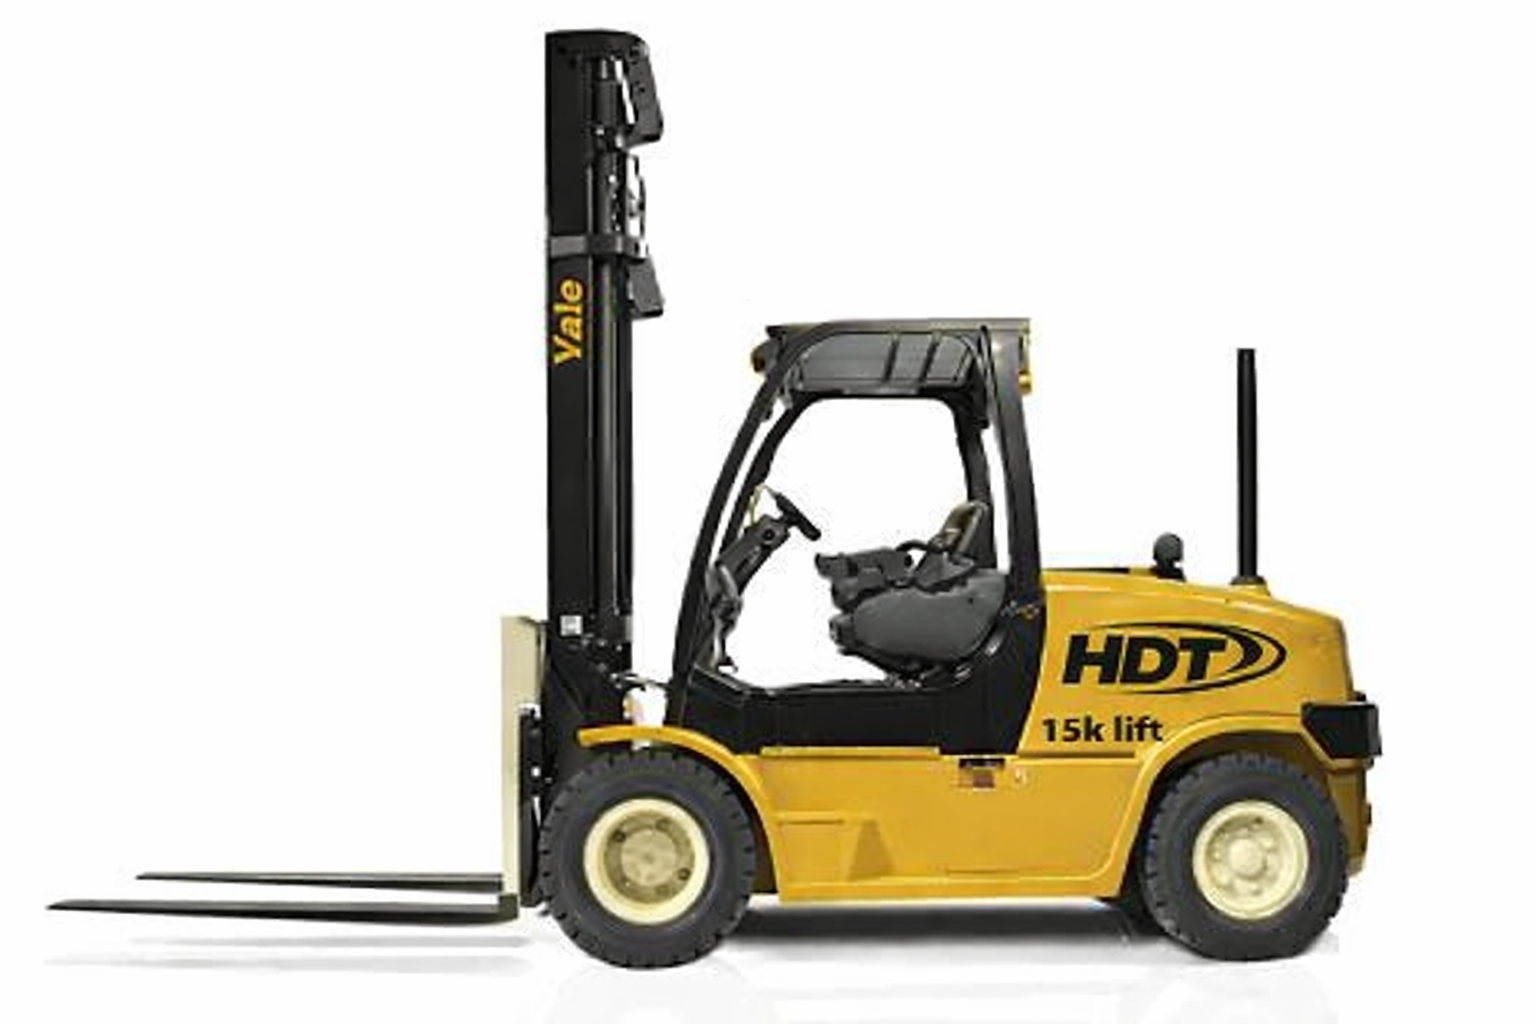
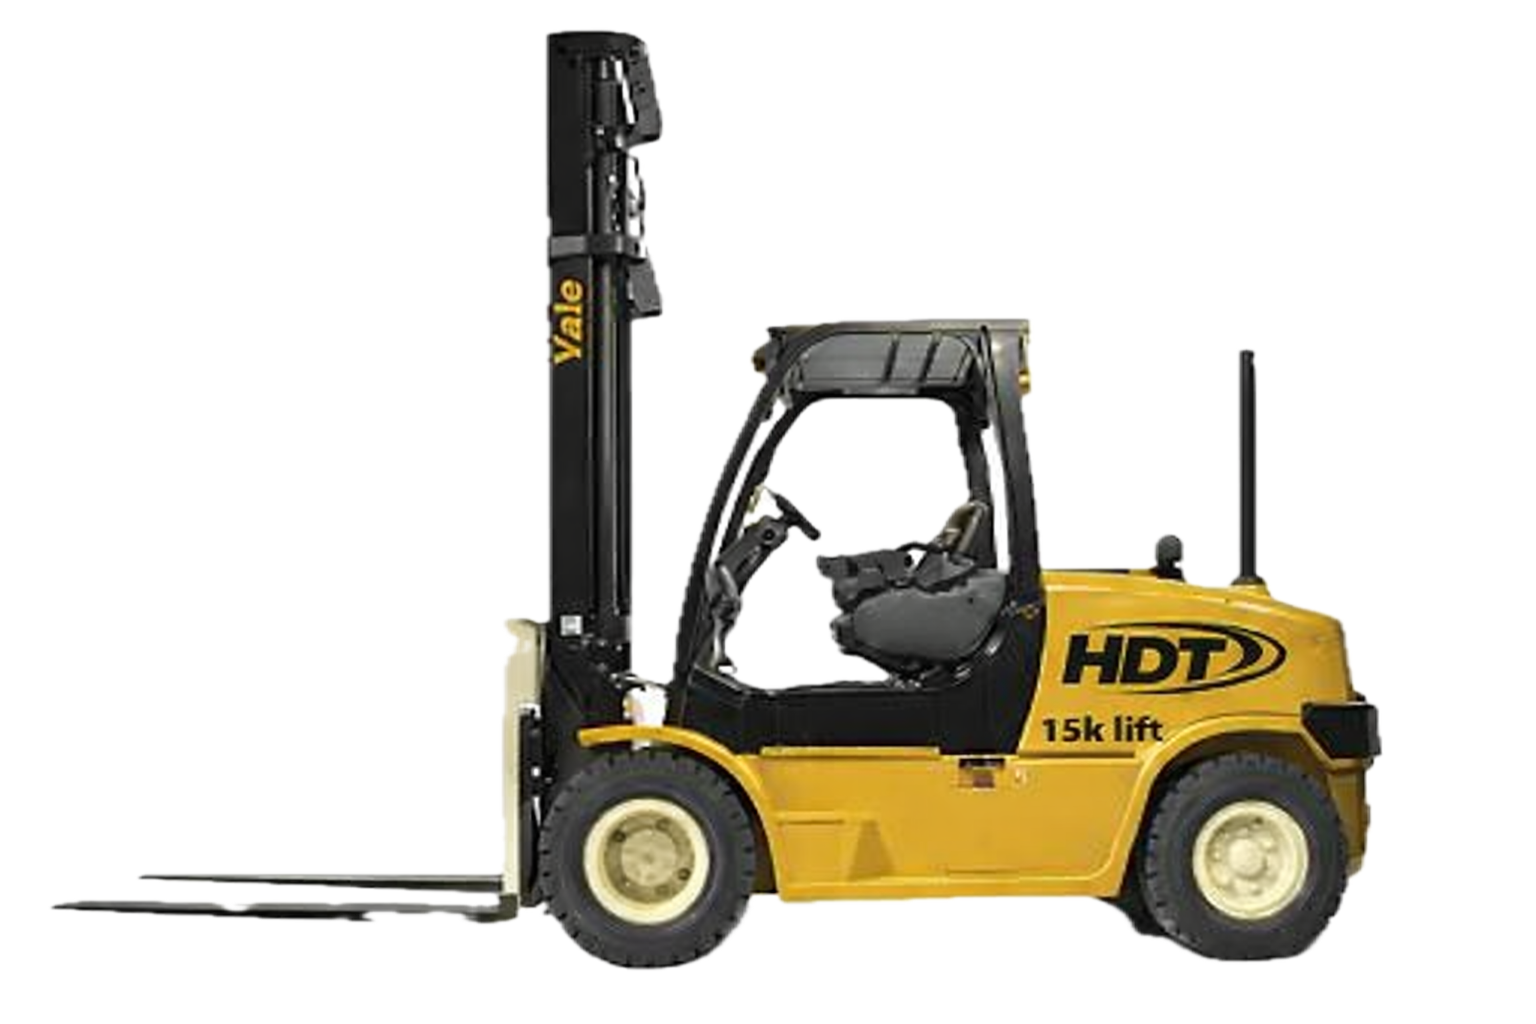
added requested content

diff --git a/styles.css b/styles.css
@@ -261,12 +261,18 @@ nav a:not(.cta-button):hover::after {
 /* Hero Section */
 .hero {
     position: relative;
-    padding: 120px 0;
-    overflow: hidden;
-    background: var(--primary);
-    min-height: 90vh;
+    padding: 40px 0;
+    overflow: hidden; /* Changed from visible to contain the background */
     display: flex;
     align-items: center;
+    justify-content: center;
+    min-height: 70vh;
+    box-sizing: border-box;
+    text-align: center;
+    transform-style: flat;
+    backface-visibility: visible;
+    perspective: none;
+    z-index: 1; /* Ensure proper stacking context */
 }
 
 .hero-background {
@@ -275,8 +281,11 @@ nav a:not(.cta-button):hover::after {
     left: 0;
     right: 0;
     bottom: 0;
-    background: var(--gradient);
+    width: 100%;
+    height: 100%;
+    background: linear-gradient(135deg, var(--primary) 0%, var(--primary-dark) 100%);
     opacity: 0.97;
+    z-index: -1; /* Ensure it stays behind content */
 }
 
 .hero-background::before {
@@ -286,8 +295,8 @@ nav a:not(.cta-button):hover::after {
     left: 0;
     right: 0;
     bottom: 0;
-    background: radial-gradient(circle at 20% 50%, rgba(99, 102, 241, 0.2) 0%, transparent 50%),
-                radial-gradient(circle at 80% 80%, rgba(79, 70, 229, 0.2) 0%, transparent 50%);
+    background: radial-gradient(circle at 20% 20%, rgba(255, 255, 255, 0.1) 0%, transparent 50%),
+                radial-gradient(circle at 80% 80%, rgba(0, 0, 0, 0.1) 0%, transparent 50%);
 }
 
 .hero-background::after {
@@ -295,64 +304,93 @@ nav a:not(.cta-button):hover::after {
     position: absolute;
     top: 0;
     left: 0;
-    right: 0;
-    bottom: 0;
-    background-image: 
-        linear-gradient(rgba(255, 255, 255, 0.03) 1px, transparent 1px),
-        linear-gradient(90deg, rgba(255, 255, 255, 0.03) 1px, transparent 1px);
-    background-size: 50px 50px;
-    opacity: 0.5;
+    width: 100%;
+    height: 100%;
[1 lines of base64/hex data omitted]
+    opacity: 0.3;
 }
 
 /* Hero Layout */
 .hero-container {
     position: relative;
     z-index: 2;
+    width: 100%;
     height: 100%;
 }
 
 .hero-content {
-    display: grid;
-    grid-template-columns: 1fr 1fr;
-    gap: 40px;
+    display: flex;
+    justify-content: center;
     align-items: center;
-    min-height: 70vh;
+    gap: 20px;
+    position: relative;
+    z-index: 2;
+    width: 100%;
+    max-width: 1400px;
+    margin: 0 auto;
+    padding: 0 20px;
+}
+
+.hero-image {
+    flex: 1;
+    display: flex;
+    justify-content: center;
+    align-items: center;
+    min-width: 0;
+    padding: 0;
+    transform: none !important;
+    will-change: auto !important;
+    height: 100%;
+}
+
+.hero-image.left {
+    justify-content: center;
+}
+
+.hero-image.right {
+    justify-content: center;
 }
 
 .hero-text {
-    max-width: 600px;
-    text-align: left;
+    flex: 0 1 600px;
+    margin: 0 15px;
+    text-align: center;
     color: var(--white);
+    z-index: 2;
+    padding: 0 15px;
 }
 
-.hero-visual {
-    position: relative;
-    height: 100%;
-    min-height: 500px;
+.hero-text h1 {
+    font-size: 42px;
+    line-height: 1.2;
+    margin-bottom: 20px;
+}
+
+.hero-subtitle {
+    font-size: 18px;
+    margin-bottom: 30px;
+    line-height: 1.6;
 }
 
 .hero-visual__forklift,
 .hero-visual__rollback {
-    position: absolute;
-    max-width: 80%;
-    height: auto;
+    width: 100%;
+    height: 100%;
+    max-height: 500px; /* Increased max height */
+    object-fit: contain;
+    object-position: center;
     filter: drop-shadow(0 10px 30px rgba(0, 0, 0, 0.3));
-    transition: transform 0.5s ease-out;
+    transition: none !important;
+    transform: none !important;
+    will-change: auto !important;
+    transform-style: flat !important;
+    backface-visibility: visible !important;
+    perspective: none !important;
 }
 
-.hero-visual__forklift {
-    bottom: 3%;
-    left: 0;
-    max-height: 40vh;
-    transform: translateX(-5%) rotate(-5deg);
-    z-index: 3;
-}
-
+/* Hero images are styled directly in the combined selector above */
 .hero-visual__rollback {
-    top: 3%;
-    right: 0;
-    max-height: 38vh;
-    transform: translateX(10%) rotate(5deg) translateY(-15px);
+    transform: none;
     z-index: 2;
 }
 
@@ -366,6 +404,14 @@ nav a:not(.cta-button):hover::after {
         opacity: 1;
         transform: translateY(0);
     }
+}
+
+/* Prevent transform on scroll for hero images */
+.hero-image img {
+    will-change: auto;
+    backface-visibility: hidden;
+    transform: none !important;
+    transition: none !important;
 }
 
 .hero-text h1,
@@ -387,35 +433,7 @@ nav a:not(.cta-button):hover::after {
     animation-delay: 0.6s;
 }
 
-.hero-visual__forklift {
-    animation: float 6s ease-in-out infinite;
-}
-
-.hero-visual__rollback {
-    animation: float 6s ease-in-out 0.5s infinite;
-}
-
-@keyframes float {
-    0%, 100% {
-        transform: translateX(-5%) translateY(0) rotate(-5deg);
-    }
-    50% {
-        transform: translateX(-5%) translateY(-10px) rotate(-3deg);
-    }
-}
-
-.hero-visual__rollback {
-    animation-name: floatReverse;
-}
-
-@keyframes floatReverse {
-    0%, 100% {
-        transform: translateX(10%) translateY(-35px) rotate(5deg);
-    }
-    50% {
-        transform: translateX(10%) translateY(-45px) rotate(3deg);
-    }
-}
+/* Animation keyframes for other elements */
 
 @keyframes fadeInUp {
     to {
@@ -452,8 +470,11 @@ nav a:not(.cta-button):hover::after {
 
 .hero-cta {
     display: flex;
+    justify-content: center;
     gap: 16px;
     flex-wrap: wrap;
+    margin: 0 auto;
+    max-width: 500px;
 }
 
 /* Buttons */
@@ -577,12 +598,15 @@ nav a:not(.cta-button):hover::after {
 
 .service-card {
     background: var(--white);
-    padding: 44px 36px;
-    border-radius: 20px;
+    border-radius: 16px;
+    padding: 40px 32px;
+    text-align: center;
+    box-shadow: var(--shadow-lg);
     border: 1px solid rgba(15, 23, 42, 0.08);
-    transition: all 0.4s cubic-bezier(0.4, 0, 0.2, 1);
+    transition: opacity 0.4s ease, transform 0.4s ease, box-shadow 0.4s ease;
     opacity: 0;
     transform: translateY(40px);
+    will-change: opacity, transform, box-shadow;
 }
 
 .service-card.animated {
@@ -1029,6 +1053,38 @@ footer {
 /* Mobile Menu Toggle - Hidden by default */
 .mobile-menu-toggle {
     display: none;
+}
+
+@media (max-width: 1200px) {
+    .hero {
+        min-height: auto;
+        padding: 80px 0 60px;
+    }
+    
+    .hero-content {
+        flex-direction: column;
+        gap: 40px;
+    }
+    
+    .hero-image {
+        max-width: 100%;
+        padding: 0 20px;
+    }
+    
+    .hero-text {
+        order: -1;
+        width: 100%;
+        max-width: 800px;
+        margin: 0 auto;
+        padding: 0 30px;
+    }
+    
+    .hero-visual__forklift,
+    .hero-visual__rollback {
+        max-height: 300px;
+        max-width: 80%;
+        margin: 0 auto;
+    }
 }
 
 @media (max-width: 1024px) {

diff --git a/index.html b/index.html
@@ -38,6 +38,9 @@
         <div class="hero-background"></div>
         <div class="container hero-container">
             <div class="hero-content">
+                <div class="hero-image left">
+                    <img src="images/HDT_FORKLIFT_ALT.png" alt="Forklift Service" class="hero-visual__forklift">
+                </div>
                 <div class="hero-text">
                     <h1>Professional Vehicle Transport from Kansas City Insurance Auctions</h1>
                     <p class="hero-subtitle">Reliable auto hauling designed for out-of-state buyers. Get your auction vehicle picked up safely, quickly, and hassle-free to our HDT hub.</p>
@@ -46,9 +49,8 @@
                         <a href="#how-it-works" class="btn-secondary">Learn More</a>
                     </div>
                 </div>
-                <div class="hero-visual">
-                    <img src="images/HDT_FORKLIFT.png" alt="Forklift Service" class="hero-visual__forklift">
-                    <img src="images/HDT_ROLLBACK.png" alt="Rollback Service" class="hero-visual__rollback">
+                <div class="hero-image right">
+                    <img src="images/HDT_ROLLBACK_ALT.png" alt="Rollback Service" class="hero-visual__rollback">
                 </div>
             </div>
         </div>
@@ -59,9 +61,6 @@
             <div class="section-header">
                 <h2>Simple Process, Professional Results</h2>
                 <p>Four easy steps to get your vehicle delivered</p>
-            </div>
-            <div class="process-hero">
-                <img src="images/HDT_FORKLIFT.png" alt="Professional Vehicle Loading with Forklift" class="process-hero-image">
             </div>
             <div class="process-timeline">
                 <div class="process-step">
@@ -101,9 +100,6 @@
             <div class="section-header">
                 <h2>Why Choose Haul Dogs Transport</h2>
                 <p>Specialized service designed for insurance auction buyers</p>
-            </div>
-            <div class="services-hero">
-                <img src="images/HDT_ROLLBACK.png" alt="Professional Rollback Truck Service" class="services-hero-image">
             </div>
             <div class="service-grid">
                 <div class="service-card">

diff --git a/app.js b/app.js
@@ -2,30 +2,13 @@
 window.addEventListener('load', function() {
     document.body.classList.add('loaded');
     
-    // Parallax effect for hero images
-    const heroImages = document.querySelectorAll('.hero-image');
+    // Disable parallax effect completely to prevent any movement
+    // const heroImages = document.querySelectorAll('.hero-image');
+    // function updateParallax() {
+    //     // No-op to prevent any transforms
+    // }
     
-    function updateParallax() {
-        const scrollPosition = window.scrollY;
-        
-        heroImages.forEach(img => {
-            const speed = parseFloat(img.getAttribute('data-speed') || '0.5');
-            const yPos = -(scrollPosition * speed);
-            img.style.transform = `translateY(${yPos}px) rotate(${img.classList.contains('hero-image--left') ? '-5deg' : '5deg'})`;
-        });
-    }
-    
-    // Only run parallax on desktop
-    if (window.innerWidth > 1024) {
-        window.addEventListener('scroll', updateParallax);
-        window.addEventListener('resize', function() {
-            if (window.innerWidth <= 1024) {
-                window.removeEventListener('scroll', updateParallax);
-            } else {
-                window.addEventListener('scroll', updateParallax);
-            }
-        });
-    }
+    // No event listeners for parallax
 });
 
 // Smooth scrolling for all anchor links
